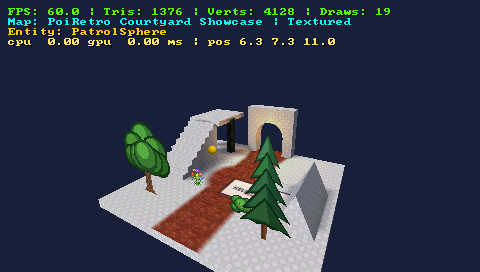
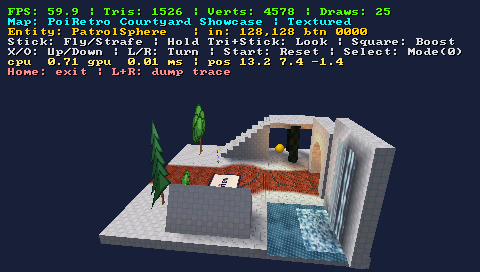
chore(release): v0.9.64
Version bump so the overlay title identifies this build, the round entry in
CLAUDE.md, and the rebuilt shipping artifacts (the EBOOT carries the new
format, since a v2 loader cannot read a v3 mesh header).

diff --git a/CLAUDE.md b/CLAUDE.md
@@ -789,6 +789,101 @@ drag, and the debug gate:
   format strings are never built. Tests that assert on INFO entries set
   PBLogger.verbose = true themselves.
 
+v0.9.64 round complete ✓ — scrolling textures end to end (PBM 3.0), soft
+alpha through the whole pipeline, and the plane reshaped into a
+surface-decoration tool:
+- PBM 3.0 (BREAKING, version + magic bumped, v1/v2 still load): the mesh
+  header grew 64 -> 72 bytes with `uv_scroll_u` / `uv_scroll_v`, and the
+  texture header's `has_alpha` became a three-valued `alpha_mode`
+  (NONE/CUTOUT/BLEND). The failure that forced the bump is worth remembering:
+  the SPEC documented a 72-byte mesh header with `float reserved[2]` while
+  every writer and the loader used 64, and both sides had "passed" for
+  releases. Now the doc and the code agree, and the loader sizes the header
+  from the file version (v<3 reads 64 bytes and leaves the meshes static).
+- SCROLL SEMANTICS: `uv_scroll_u/v` are the VELOCITY OF THE PATTERN across the
+  surface, in texture repeats per second, along the surface's own UV axes
+  (V up on a wall, +Z on a floor) — so falling water is NEGATIVE V and churn
+  spreading away from the wall is POSITIVE V. GET THE SIGN WRONG AND IT IS
+  INVISIBLE IN A STATIC FRAME: the first demo shipped with the water climbing
+  the wall. The GE's `sceGuTexOffset` is documented as an offset ADDED to the
+  texture coordinate, and MEASURED on hardware an increasing offset moves the
+  pattern toward +V — i.e. the doc's reading is backwards for this purpose.
+  The file keeps the pattern-velocity meaning; the renderer writes the offset
+  and the sign relation is recorded in `apply_uv_scroll` and §5.1 of the spec.
+  Measurement recipe (also in run_psp_headless.sh + the spec): the benchmark
+  now freezes its orbit at frame 60 and captures AGAIN 20 frames later, so two
+  frames of the same camera isolate the animation; correlate the scrolling
+  mesh's pixels (the correlation returns dy = -motion; validate with a
+  synthetic shift before trusting it — this was got wrong once too). PPSSPP's
+  frame captures are NOT pixel-stable between different frame indices, so a
+  same-frame A/B against a map with zeroed scroll speeds is the artifact-free
+  control.
+- GE STATE LEAKS ACROSS FRAMES: a display list does not reset registers, so a
+  texture offset left by the previous frame's last animated mesh is still live
+  when the next frame starts. The per-frame offset cache therefore starts
+  INVALID (-1) and always emits on the first mesh; starting it at 0,0 painted
+  the whole static scene through the stale offset.
+- SOFT ALPHA (the "wetness" feature): `alpha_mode = BLEND` textures travel as
+  RGBA8888 (5551 has ONE alpha bit — it can cut a texel out, not fade it),
+  keep their mip chain (averaged alpha is exactly what a blended surface
+  wants), and draw with a zero alpha-test threshold so early-Z still works.
+  CUTOUT keeps the old behaviour byte for byte (alpha-tested, NO mip chain:
+  box-filtering a 1-bit alpha erodes the silhouette). The loader builds an
+  UNSWIZZLED mip chain for 32-bit textures (the 16-bit swizzle layout does not
+  apply; the GE takes a base/size register per level either way).
+  Godot's transparency drives it: Alpha -> BLEND, Alpha Scissor/Hash ->
+  CUTOUT; in glTF it is `alphaMode` (BLEND/MASK/absent), which is also how the
+  GLB converters read it. `_get_or_create_base_material` now carries
+  transparency across its copy (it used to silently drop it), and PBTileBaker
+  refuses to bake a scrolling or non-opaque face (a baked tile is an opaque
+  5551 crop and cannot express either).
+- ONE AUTHORING KNOB, THREE CONSUMERS: the speed lives on the MATERIAL
+  (Material & UV dock → Scrolling Texture: Speed U/V + Apply/Clear), because
+  that is the unit the exporters split meshes by; applying it duplicates a
+  shared material rather than animating faces the user did not select. From
+  there the same value reaches (a) `_write_pbm_from_tree` (native .pbm),
+  (b) the GLB material `extras` as `{"poi_uv_scroll": [u, v]}` for
+  pbm_conv.py and PBPbmConverter.gd, and (c) the retro viewer, which replays
+  the animation with `uv1_offset` so the Godot preview matches the device.
+  Converters bucket meshes by (texture, scroll) — two materials sharing one
+  texture but scrolling at different speeds must not merge, or one animation
+  is lost — and neither atlases a scrolling or blended texture.
+- THE PLANE IS NOW THE SURFACE-DECORATION SHAPE (it was janky: a flat grid
+  you sized by dragging a height that meant nothing, while sprites covered
+  billboards). It drags its base rect out PARALLEL to the surface like every
+  other shape, then the mouse offsets it ALONG THE SURFACE NORMAL (clamped
+  >= 0) and the click confirms — the same OFFSET stage the sprite introduced,
+  reached by a drag instead of a click. Size comes from the base rect alone,
+  which is what makes it the natural host for a scrolling sheet hanging in
+  front of a wall. GUI harness covers it: "PLANE: offset 2.40m leaves the
+  1.60x2.20m sheet unchanged" + "created 1.90 m above the surface".
+- THE VIEWER'S ARGS NEVER WORKED: `OS.get_cmdline_args()` excludes everything
+  after a bare `--` (that is `get_cmdline_user_args()`), so `--screenshot=`,
+  `--map=`, `--cam_pos=`, `--mode=` were silently ignored — every documented
+  invocation. It parses both lists now. The animation itself was dead too:
+  `uv1_offset` is a Vector3 and the code subtracted a Vector2 from it, so the
+  script errored on every frame and the waterfall never moved. Both fixed;
+  `--scroll_time=<s>` pins the animation to a fixed scene time for
+  deterministic A/B captures.
+- TEXTURES: the water art was regenerated (gen_water_textures.py) after the
+  first pass read as "a bunch of dots". It is now layered torrents in the
+  spirit of cosmic2d's waterwall: long ropes with real gaps where the wall
+  shows through, per-rope variation along the length, off-centre highlight
+  patches, and foam heads on the fast inner layer. Objective check while
+  authoring: `_shift_diff` measures how much the image changes for a given
+  scroll step — a vertically uniform rope scores ~0 and reads as frozen no
+  matter how correct the animation is, which is exactly how one version of
+  this sheet shipped.
+- DEMO: the courtyard waterfall is 6 scrolling surfaces (sheet + faster core,
+  ripple pool, foam ribbon, spray billboard, on a wall panel), all authored
+  through the ordinary material workflow. Pool/foam/spray hug the impact point
+  (the first pass left a visible dry gap under the fall). Device numbers:
+  59.9 fps locked, cpu 0.72 / gpu 0.01 ms in the emulator benchmark, 4578
+  verts, 26 draws.
+- Tests: 828/828 GUT (the PBM parity test now pins the alpha modes, the
+  format-aware texture sizes, the scroll directions and the never-atlas rule),
+  GUI harness green including the new plane flow.
+
 v0.9.63 round complete ✓ — PSP frame cost found and fixed on REAL HARDWARE
 (not the emulator), plus the live-hardware debugging harness:
 - WHY THE EMULATOR COULD NOT FIND IT: PPSSPP rasterises on the host GPU with a
